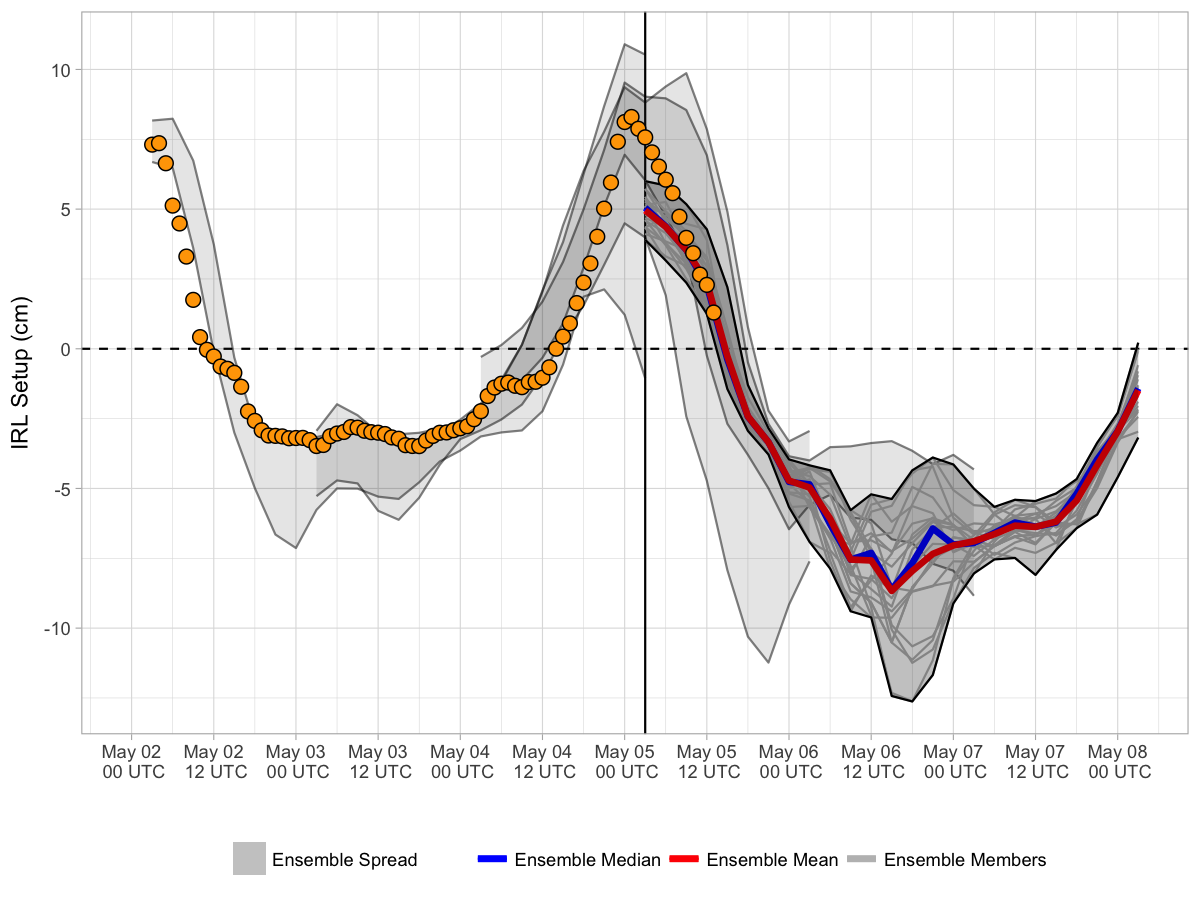
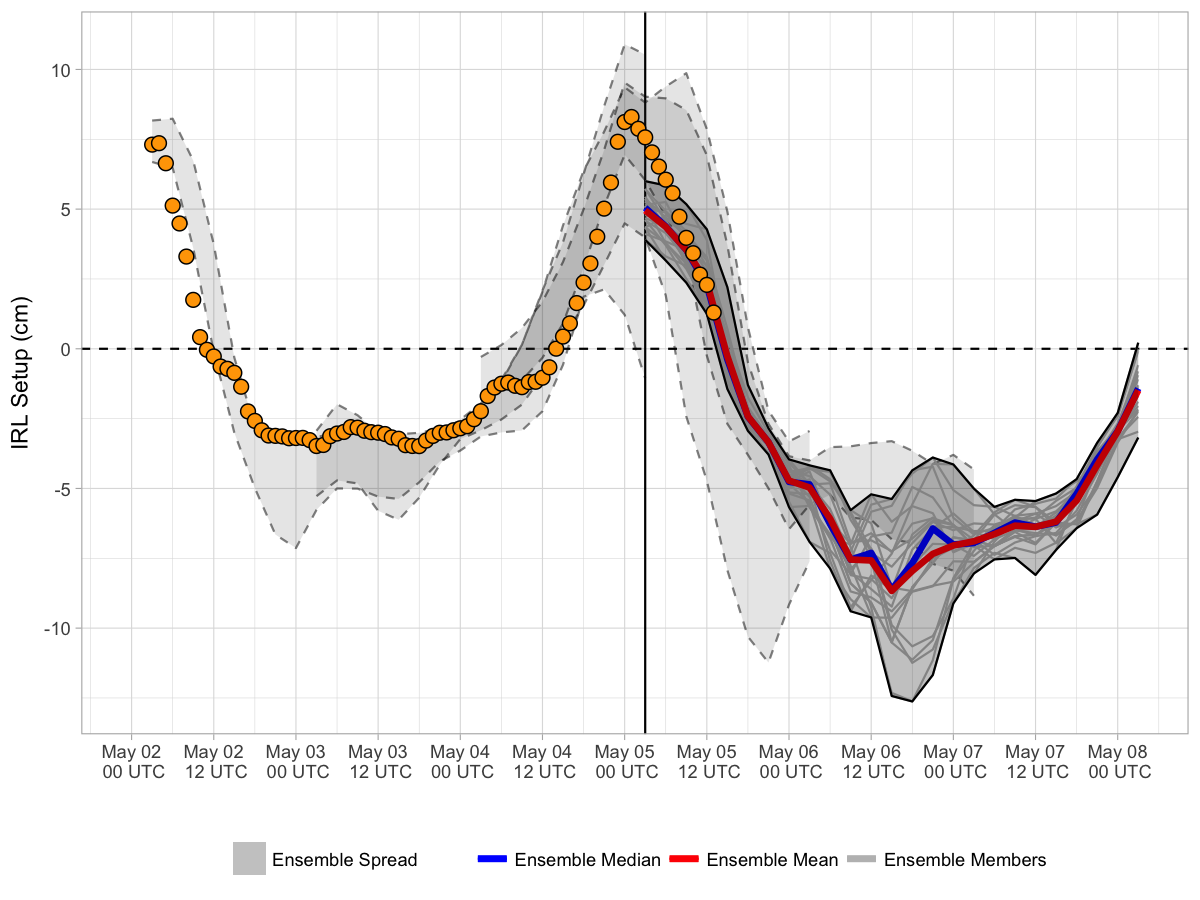
Previous forecast spreads are now 'dashed'.

diff --git a/docs/index.md b/docs/index.md
@@ -3,7 +3,7 @@ Current Forecast
 
 ![](img/raw_setup.png)
 
-> Forecast valid 2017-05-05 10:20:52.
+> Forecast valid 2017-05-05 10:25:35.
 
 About
 -----
